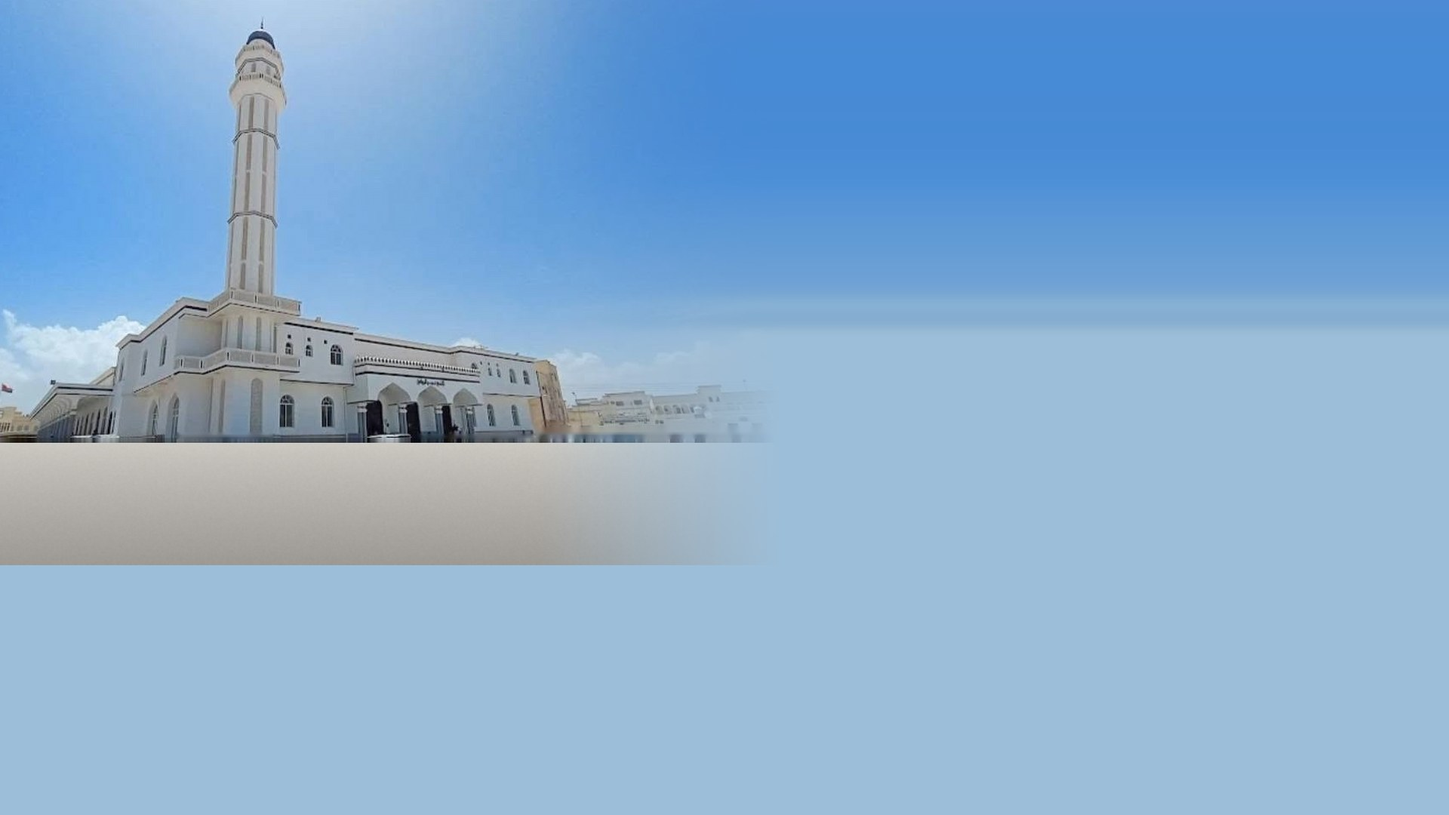
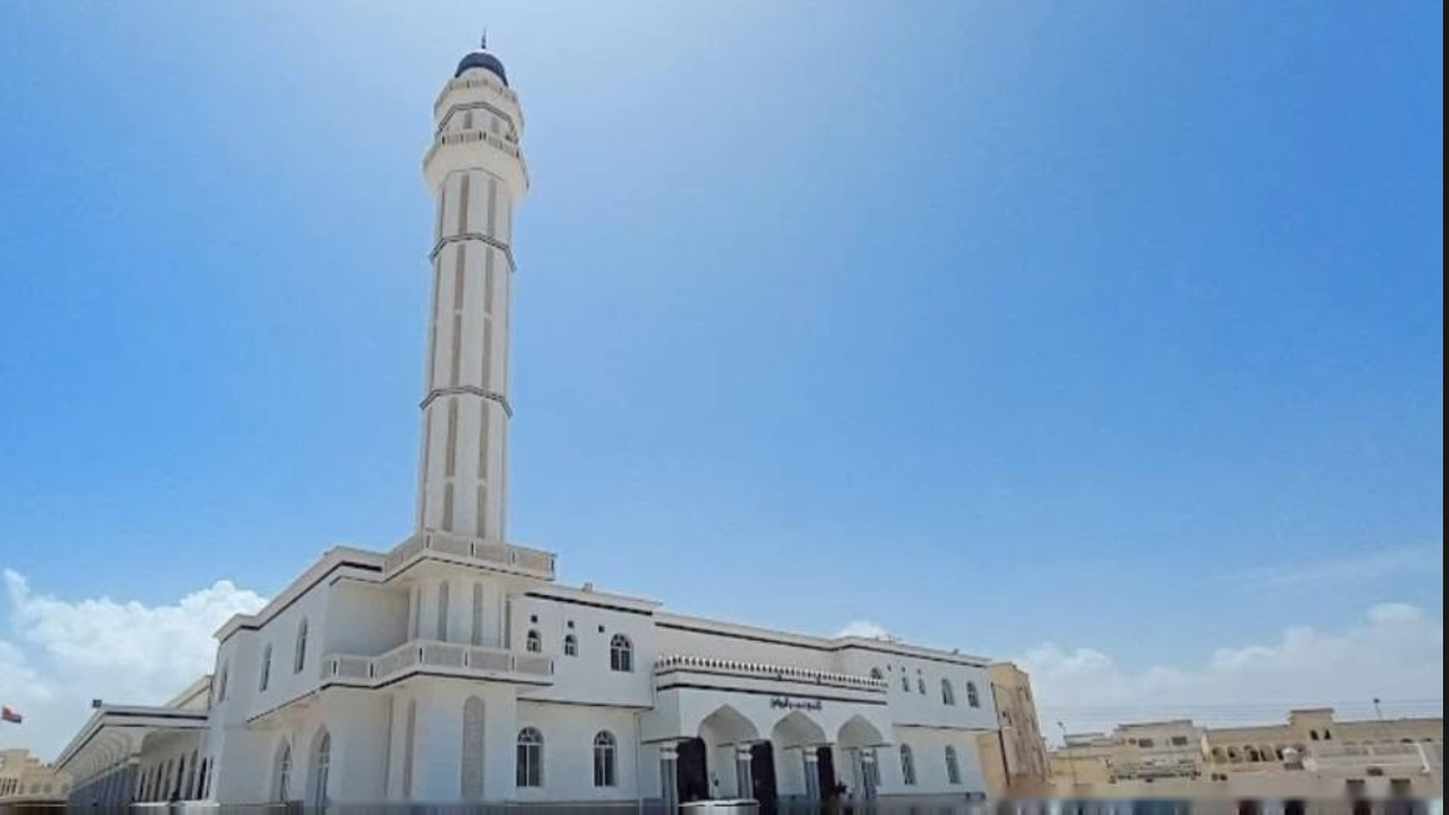
Home like Apple TV: one scrolling page (prayer card with iqamah, next island-team match + channel, Quran, live channels incl. Oman/MBC, every app); the mosque comes closer when scrolled; Quran bar closes (button, back, 8 s paused); Gulf country lists in IPTV
Claude-Session: https://claude.ai/code/session_01ARi9ftabyekJLjbacbC3ya

diff --git a/app/src/main/assets/home/index.html b/app/src/main/assets/home/index.html
@@ -12,8 +12,12 @@ html{background:var(--bg)}
 html,body{margin:0;height:100%;color:var(--ink);font-family:"Noto Sans Arabic","Noto Naskh Arabic","Roboto",sans-serif;overflow:hidden}
 .screen{width:1920px;height:1080px;padding:36px 64px 40px;display:flex;flex-direction:column;gap:22px;position:relative}
 /* the wallpaper: a light veil over the sky, solid ink under the shelves so text stays readable */
-.wall{position:fixed;inset:0;background-size:cover;background-position:center;z-index:-2;transition:background-image .6s}
-.veil{position:fixed;inset:0;z-index:-1;background:linear-gradient(180deg,rgba(10,14,19,.15) 0%,rgba(10,14,19,.25) 36%,rgba(10,14,19,.86) 64%,#0a0e13 84%)}
+.wall{position:fixed;inset:0;background-size:cover;background-position:center;z-index:-2;transform-origin:30% 78%;transition:background-image .6s,transform .9s cubic-bezier(.2,.8,.2,1)}
+/* scrolled down (Apple TV): the mosque comes closer, the veil evens out so every shelf stays readable */
+body.deep .wall{transform:scale(1.18)}
+body.deep .veil{background:linear-gradient(180deg,rgba(10,14,19,.4) 0%,rgba(10,14,19,.55) 45%,rgba(10,14,19,.8) 100%)}
+.veil{transition:background .9s}
+.veil{position:fixed;inset:0;z-index:-1;background:linear-gradient(180deg,rgba(10,14,19,.12) 0%,rgba(10,14,19,.22) 40%,rgba(10,14,19,.55) 72%,rgba(10,14,19,.78) 100%)}
 .glass{background:rgba(18,26,34,.62)!important;-webkit-backdrop-filter:blur(18px);backdrop-filter:blur(18px)}
 .line{font-size:20px;color:var(--gold);font-weight:700}
 .top{display:flex;align-items:center;justify-content:space-between;gap:24px}
@@ -26,18 +30,20 @@ html,body{margin:0;height:100%;color:var(--ink);font-family:"Noto Sans Arabic","
 .f{outline:none;transition:transform .18s ease,box-shadow .18s ease}
 .f:focus{transform:scale(1.06);box-shadow:0 0 0 4px rgba(255,255,255,.92),0 26px 50px rgba(0,0,0,.55);z-index:2}
 .tab.f:focus{transform:none;box-shadow:0 0 0 3px var(--accent)}
-.hero{display:flex;flex-direction:column;gap:16px;width:1080px;align-self:flex-start;padding:28px 40px;border-radius:40px;background:var(--card);border:1px solid var(--line)}
+.heroRow{display:flex;gap:28px;align-items:stretch}
+.hero{display:flex;flex-direction:column;gap:12px;width:1040px;flex:none;padding:22px 32px;border-radius:40px;background:var(--card);border:1px solid var(--line)}
 .hero .l{flex:1;display:flex;flex-direction:column;gap:8px}
 .hero small{font-size:24px;color:var(--accent);font-weight:600}
-.hero h1{margin:0;font-size:72px;line-height:1.05}
+.hero h1{margin:0;font-size:56px;line-height:1.05}
 .hero p{margin:0;font-size:24px;color:var(--dim)}
 .times{width:100%;display:flex;flex-direction:column;justify-content:center;gap:14px}
 .times .row{display:grid;grid-template-columns:repeat(5,1fr);gap:10px;text-align:center}
-.times .p{padding:10px 0;border-radius:22px;background:rgba(255,255,255,.04);display:flex;flex-direction:column;gap:4px}
-.times .p span{font-size:21px;color:var(--dim)} .times .p b{font-size:30px;font-variant-numeric:tabular-nums}
+.times .p{padding:8px 0;border-radius:22px;background:rgba(255,255,255,.04);display:flex;flex-direction:column;gap:4px}
+.times .p span{font-size:20px;color:var(--dim)} .times .p b{font-size:28px;font-variant-numeric:tabular-nums}
+.times .p em{font-style:normal;font-size:17px;color:var(--dim);font-variant-numeric:tabular-nums}.times .p.next em{color:#0b3d2a}
 .times .p.past b{color:#7c8794} .times .p.next{background:var(--accent);color:#062016} .times .p.next span{color:#062016}
 .bar{height:8px;border-radius:4px;background:rgba(255,255,255,.08);overflow:hidden}.bar i{display:block;height:100%;background:var(--accent)}
-h2{margin:0 0 4px;font-size:28px}
+h2{margin:0 0 4px;font-size:28px;text-shadow:0 2px 12px rgba(0,0,0,.6)}
 .shelf{display:flex;gap:28px;padding:14px 18px 18px;margin:0 -18px;overflow:hidden}
 .card{flex:none;width:340px;height:190px;border-radius:26px;padding:24px;display:flex;flex-direction:column;justify-content:flex-end;gap:2px;border:0;color:var(--ink);text-align:right;font-family:inherit}
 .card b{font-size:34px} .card span{font-size:19px;opacity:.8}
@@ -50,7 +56,17 @@ h2{margin:0 0 4px;font-size:28px}
 .match .t .s{font-variant-numeric:tabular-nums;font-size:32px}
 .match small{font-size:18px;color:var(--dim)} .match.live small{color:var(--accent)}
 .page{display:none;flex-direction:column;gap:14px;min-height:0}.page.on{display:flex}
-.sal{position:absolute;bottom:22px;left:64px;padding:10px 22px;border-radius:999px;background:rgba(255,255,255,.06);font-size:20px;color:#cfd6de}
+.sal{font-size:18px;color:#cfd6de;margin-top:6px}
+.nextm{flex:1;min-width:0;border-radius:40px;border:1px solid var(--line);padding:24px 30px;display:flex;flex-direction:column;justify-content:space-between;gap:10px;color:var(--ink);font-family:inherit;text-align:right}
+.nextm small{font-size:20px;color:var(--accent);font-weight:600}.nextm .lg{font-size:19px;color:var(--dim)}
+.nextm .vs{display:flex;align-items:center;justify-content:space-between;gap:12px}
+.nextm .tm{display:flex;flex-direction:column;align-items:center;gap:8px;width:42%;font-size:24px;font-weight:700;text-align:center;line-height:1.2}
+.nextm .tm img{width:72px;height:72px;object-fit:contain}
+.nextm .mid{font-size:30px;font-weight:700;font-variant-numeric:tabular-nums;text-align:center;white-space:nowrap}.nextm .mid i{display:block;font-style:normal;font-size:18px;color:var(--dim);font-weight:500}
+.nextm .tv{font-size:22px;font-weight:600;color:var(--gold)}
+#homeScroll{display:flex;flex-direction:column;gap:20px}
+.appgrid{display:grid;grid-template-columns:repeat(6,1fr);gap:26px;padding:12px 4px 20px}
+.appgrid .app{width:auto;height:160px}
 .empty{font-size:22px;color:var(--dim);padding:20px 4px}
 .panel{position:absolute;inset:0;background:rgba(5,8,11,.72);display:none;align-items:center;justify-content:center}
 .panel.on{display:flex}
@@ -75,7 +91,7 @@ h2{margin:0 0 4px;font-size:28px}
 .chan img{width:96px;height:96px;border-radius:50%;object-fit:cover;background:#222}
 .ichan{height:110px;border-radius:20px;background:rgba(20,28,37,.8);border:1px solid var(--line);display:flex;align-items:center;gap:14px;padding:0 18px;color:var(--ink);font-family:inherit;font-size:20px;text-align:right;overflow:hidden}
 .ichan img{width:64px;height:64px;object-fit:contain;flex:none}
-.player{position:absolute;bottom:22px;left:420px;right:64px;height:96px;border-radius:999px;display:flex;align-items:center;gap:14px;padding:0 18px 0 34px;z-index:5}
+.player{position:absolute;bottom:26px;left:50%;transform:translateX(-50%);width:1180px;height:96px;border-radius:999px;display:flex;align-items:center;gap:14px;padding:0 18px 0 34px;z-index:5}
 .player>div{flex:1;display:flex;flex-direction:column}.player b{font-size:26px}.player span{font-size:18px;color:var(--dim)}
 .player .btn{height:64px;padding:0 26px}
 [hidden]{display:none!important}
@@ -95,17 +111,21 @@ h2{margin:0 0 4px;font-size:28px}
       <button class="tab f" data-page="apps">التطبيقات</button>
       <button class="tab f" data-act="settings">الإعدادات</button>
     </nav>
-    <div class="wx" id="wx"></div>
+    <div><div class="wx" id="wx"></div><div class="sal">اللهم صلِّ وسلّم على نبينا محمد ﷺ</div></div>
   </div>
 
-  <section class="page on" id="p-home">
-    <div class="hero glass">
-      <div class="l"><small>الصلاة القادمة</small><h1 id="next">…</h1><p id="nextSub"></p></div>
-      <div class="times"><div class="row" id="times"></div><div class="bar"><i id="prog" style="width:0"></i></div></div>
+  <section class="page on" id="p-home"><div class="scroll" id="homeScroll">
+    <div class="heroRow">
+      <div class="hero glass">
+        <div class="l"><small id="heroSmall">الصلاة القادمة</small><h1 id="next">…</h1><p id="nextSub"></p></div>
+        <div class="times"><div class="row" id="times"></div><div class="bar"><i id="prog" style="width:0"></i></div></div>
+      </div>
+      <button class="nextm glass f" id="nextm" data-act="nextm"><small>أقرب مباراة</small><div class="empty">جارٍ التحميل…</div></button>
     </div>
     <div><h2>القرآن والأذكار</h2><div class="shelf" id="s-quran"></div></div>
-    <div><h2>التطبيقات</h2><div class="shelf" id="s-apps"></div></div>
-  </section>
+    <div><h2>قنوات مباشرة</h2><div class="shelf" id="s-live"><div class="empty">جارٍ التحميل…</div></div></div>
+    <div><h2>التطبيقات</h2><div class="appgrid" id="s-apps"></div></div>
+  </div></section>
 
   <section class="page" id="p-quran"><div class="scroll">
     <h2>القارئ</h2><div class="shelf" id="s-reciters"></div>
@@ -123,10 +143,9 @@ h2{margin:0 0 4px;font-size:28px}
     <h2>القنوات العربية</h2><div class="shelf" id="s-igroups"></div><div class="grid ch" id="s-ilist"></div>
   </div></section>
   <section class="page" id="p-matches"><h2>مباريات اليوم</h2><div class="shelf" id="s-matches" style="flex-wrap:wrap"></div></section>
-  <section class="page" id="p-apps"><h2>كل التطبيقات</h2><div class="shelf" id="s-apps2" style="flex-wrap:wrap"></div></section>
+  <section class="page" id="p-apps"><div class="scroll"><h2>كل التطبيقات</h2><div class="appgrid" id="s-apps2"></div></div></section>
 
-  <div class="player glass" id="player" hidden><div><b id="plTitle"></b><span id="plSub"></span></div><button class="btn f" data-act="pl-prev">السابقة</button><button class="btn f" data-act="pl-toggle" id="plToggle">إيقاف</button><button class="btn f" data-act="pl-next">التالية</button></div>
-  <div class="sal">اللهم صلِّ وسلّم على نبينا محمد ﷺ</div>
+  <div class="player glass" id="player" hidden><div><b id="plTitle"></b><span id="plSub"></span></div><button class="btn f" data-act="pl-prev">السابقة</button><button class="btn f" data-act="pl-toggle" id="plToggle">إيقاف</button><button class="btn f" data-act="pl-next">التالية</button><button class="btn f" data-act="pl-close">إغلاق</button></div>
 
   <div class="panel" id="panel"><div class="box">
     <h3>الإعدادات</h3>
@@ -173,19 +192,37 @@ function tick() {
 }
 let P = {};
 function loadPrayers() { try { P = JSON.parse(TV.prayers()) || {}; } catch (e) { P = {}; } prayersUi(); weather(); }
+async function loadSettings() { const ms = await getJ('https://studio.c-p.workers.dev/bin/69c782cbb7ec241ddcb0b99a'); if (ms && Array.isArray(ms.prayerSettings)) { PSET = ms.prayerSettings; prayersUi(); } }
 function at(hm, plusDay) { const [h, m] = hm.split(':').map(Number), d = new Date(); d.setHours(h, m, 0, 0); if (plusDay) d.setDate(d.getDate() + 1); return d; }
+// iqamah = adhan + DriveCast's own setting (master bin prayerSettings), else the usual Oman gaps
+let PSET = [];
+const PID = ['fajr', 'dhuhr', 'asr', 'maghrib', 'isha'], IQ = [25, 20, 20, 10, 20];
+const pset = i => PSET.find(x => x && x.id === PID[i]) || {};
 function prayersUi() {
   const t = P.today; if (!t) { $('#next').textContent = 'المواقيت عند أول اتصال'; return; }
-  const now = new Date(), list = t.map((x, i) => ({ i, d: at(x) }));
+  const now = new Date(), list = t.map((x, i) => {
+    const d = at(x); d.setMinutes(d.getMinutes() + (+pset(i).offsetMinutes || 0));
+    const iq = pset(i).iqamahDuration ?? IQ[i];
+    return { i, d, q: new Date(d.getTime() + iq * 60000) };
+  });
+  const iqNow = list.find(x => x.d <= now && x.q > now);
   let n = list.find(x => x.d > now), prev = [...list].reverse().find(x => x.d <= now);
   if (!n) n = { i: 0, d: at((P.tomorrow || t)[0], true) };
-  const mins = Math.round((n.d - now) / 60000);
-  $('#next').textContent = NAMES[n.i] + ' ' + (mins < 60 ? 'بعد ' + AR(mins) + ' دقيقة' : 'بعد ' + AR(Math.floor(mins / 60)) + ' س ' + AR(mins % 60) + ' د');
+  const left = ms => { const m = Math.max(1, Math.ceil(ms / 60000)); return m < 60 ? AR(m) + ' دقيقة' : AR(Math.floor(m / 60)) + ' س ' + AR(m % 60) + ' د'; };
+  if (iqNow) {
+    $('#heroSmall').textContent = 'أُذّن ' + NAMES[iqNow.i] + ' · ' + AR(fmtD(iqNow.d));
+    $('#next').textContent = 'الإقامة بعد ' + left(iqNow.q - now);
+  } else {
+    $('#heroSmall').textContent = 'الصلاة القادمة';
+    $('#next').textContent = NAMES[n.i] + ' بعد ' + left(n.d - now);
+  }
+  const hot = iqNow ? iqNow.i : n.i;
   $('#nextSub').textContent = (P.city ? P.city + ' · ' : '') + 'الأذان يتنبّه إذا كان فيلم يعمل، ولا يقطعه';
-  $('#times').innerHTML = t.map((x, i) => `<div class="p ${i === n.i ? 'next' : list[i].d <= now ? 'past' : ''}"><span>${NAMES[i]}</span><b>${AR(fmt(x))}</b></div>`).join('');
-  const from = prev ? prev.d : at(t[0]), span = n.d - from;
-  $('#prog').style.width = Math.max(0, Math.min(100, (now - from) / span * 100)) + '%';
+  $('#times').innerHTML = list.map(x => `<div class="p ${x.i === hot ? 'next' : x.q <= now ? 'past' : ''}"><span>${NAMES[x.i]}</span><b>${AR(fmtD(x.d))}</b><em>إقامة ${AR(fmtD(x.q))}</em></div>`).join('');
+  const from = iqNow ? iqNow.d : prev ? prev.d : at(t[0]), to = iqNow ? iqNow.q : n.d;
+  $('#prog').style.width = Math.max(0, Math.min(100, (now - from) / (to - from) * 100)) + '%';
 }
+const fmtD = d => fmt(d.getHours() + ':' + d.getMinutes());
 const fmt = hm => { let [h, m] = hm.split(':').map(Number); h = h % 12 || 12; return h + ':' + String(m).padStart(2, '0'); };
 let wxAt = 0;
 function weather() {
@@ -232,7 +269,11 @@ async function playSurah(n) {
   $('#plTitle').textContent = 'سورة ' + SURAHS[n - 1]; $('#plSub').textContent = r[1]; $('#plToggle').textContent = 'إيقاف';
   quranUi();
 }
-audio.onended = () => { if (playing && playing < 114) playSurah(playing + 1); };
+audio.onended = () => { if (playing && playing < 114) playSurah(playing + 1); else closePlayer(); };
+function closePlayer() { audio.pause(); audio.removeAttribute('src'); audio.load(); playing = null; $('#player').hidden = true; if ($('#player').contains(document.activeElement)) $('.tab.on')?.focus(); quranUi(); }
+let pauseT = 0;
+audio.onpause = () => { clearTimeout(pauseT); pauseT = setTimeout(() => { if (audio.paused && playing) closePlayer(); }, 8000); };
+audio.onplay = () => clearTimeout(pauseT);
 function quranUi() {
   const cur = getRec();
   $('#s-reciters').innerHTML = RECITERS.map(r => `<button class="chip f ${r[0] === cur ? 'on' : ''}" data-rec="${r[0]}">${r[1]}</button>`).join('');
@@ -282,15 +323,82 @@ function iptvUi() {
   window.__shown = shown;
   $('#s-ilist').innerHTML = shown.map((c, i) => ichHtml(c, i, 'shown')).join('') || '<div class="empty">جارٍ التحميل…</div>';
 }
-let iptvAt = 0;
-async function loadIptv() {
-  if (Date.now() - iptvAt < 30 * 60000) return; iptvAt = Date.now();
+const LISTS = [['languages/ara', ''], ['countries/om', 'عُمان'], ['countries/ae', 'الإمارات'], ['countries/sa', 'السعودية'], ['countries/qa', 'قطر'], ['countries/kw', 'الكويت']];
+let listsAt = 0, LIVE = [];
+async function loadLists() {
+  if (Date.now() - listsAt < 30 * 60000) return; listsAt = Date.now();
   const fav = await getJ(BIN(BINS.iptv));
   IFAV = arr(fav?.iptv, fav?.channels, fav).filter(c => c && c.url).map(c => ({ name: c.name, logo: c.stream_icon, url: c.url, group: c.group || '' }));
+  const texts = await Promise.all(LISTS.map(l => getText('https://iptv-org.github.io/iptv/' + l[0] + '.m3u')));
+  const seen = new Set(); ILIST = [];
+  texts.forEach((t, k) => parseM3u(t).forEach(c => { if (seen.has(c.url)) return; seen.add(c.url); ILIST.push(LISTS[k][1] ? { ...c, group: LISTS[k][1] } : c); }));
+  liveUi(); iptvUi();
+}
+// the home shelf: your DriveCast favourites first, then Oman, MBC, Quran and news
+const PICKS = [/^Oman TV\b/i, /^Oman TV Cultural/i, /^Oman TV Mubashir/i, /^Oman Sports?/i, /^MBC 1\b/i, /^MBC Drama/i, /^MBC 4\b/i, /^MBC 5\b/i, /^MBC Action/i, /^MBC Masr\b/i, /^Al Quran Al Kareem/i, /^Al Sunnah/i, /^Iqraa Quran/i, /^Al Jazeera( |$)/i, /^Al Arabiya( |$)/i, /^Dubai Sports/i, /^Abu Dhabi Sports/i, /^Sharjah Sports/i];
+function liveUi() {
+  const base = n => n.replace(/\s*[\(\[].*$/, '').trim().toLowerCase(), have = new Set(IFAV.map(c => base(c.name)));
+  LIVE = [...IFAV];
+  for (const re of PICKS) for (const c of ILIST) if (re.test(c.name) && !/geo-blocked|radio|\bFM\b/i.test(c.name) && !have.has(base(c.name))) { have.add(base(c.name)); LIVE.push(c); break; }
+  $('#s-live').innerHTML = LIVE.map((c, i) => ichHtml(c, i, 'live')).join('') || '<div class="empty">لا اتصال بالإنترنت</div>';
+}
+async function loadIptv() {
   $('#s-ifav').innerHTML = IFAV.map((c, i) => ichHtml(c, i, 'fav')).join('') || '<div class="empty">لا مفضّلة — أضفها من DriveCast</div>';
-  iptvUi();
-  ILIST = parseM3u(await getText('https://iptv-org.github.io/iptv/languages/ara.m3u'));
-  iptvUi();
+  iptvUi(); await loadLists();
+  $('#s-ifav').innerHTML = IFAV.map((c, i) => ichHtml(c, i, 'fav')).join('') || '<div class="empty">لا مفضّلة — أضفها من DriveCast</div>';
+}
+
+// ---- the next match of your «island» teams (DriveCast), and the channel that shows it in the region
+const LOGO = id => 'https://imagecache.365scores.com/image/upload/f_png,w_96,h_96,c_limit,q_auto:eco/Competitors/' + id;
+const TVRULES = [   // the same rights as DriveCast's match-channels.ts (2026/27), by the league's Arabic name
+  [/كأس ألمانيا|كأس إيطاليا/, 'أبوظبي الرياضية', /abu ?dhabi sports?/i],
+  [/السعودي|روشن|خادم الحرمين/, 'ثمانية', /thmanyah/i],
+  [/الألماني|بوندسليغا/, 'MBC Action · شاهد', /mbc action/i],
+  [/الإيطالي/, 'STARZPLAY Sport', /starz/i],
+  [/أدنوك|الإماراتي|رئيس الدولة|الخليج العربي/, 'أبوظبي الرياضية · دبي الرياضية', /abu ?dhabi sports?|dubai sports?/i],
+  [/العماني|عمانتل|السلطان/, 'عُمان الرياضية', /oman sports?/i],
+  [/الأرجنتيني|الهولندي/, 'دبي الرياضية', /dubai sports?/i],
+  [/القطري|نجوم/, 'الكأس', /alkass|al kass/i],
+  [/المصري/, 'أون تايم سبورت', /on ?time sports?/i],
+  [/الاسكتلندي/, 'الشارقة الرياضية', /sharjah sports?/i],
+  [/الأمريكي|الأميركي/, 'Apple TV', /apple/i],
+  [/الإنجليزي|الإسباني|الفرنسي|التركي|أبطال|الأوروبي|كونفرنس|آسيا|إفريقيا|أفريقيا|كأس الرابطة|كأس الاتحاد|العالم|الأمم/, 'beIN SPORTS', /bein/i],
+];
+let NEXTM = null;
+async function loadNext() {
+  const now = await getJ('https://studio.c-p.workers.dev/now?lang=27');
+  const isl = arr(now?.teams).filter(t => t.island).map(t => t.id);
+  let m = arr(now?.matches).find(x => x.favorite && x.status === 'live');
+  if (!m && isl.length) {
+    const d = await getJ('https://webws.365scores.com/web/games/fixtures/?appTypeId=5&langId=27&timezoneName=Asia/Muscat&userCountryId=1&competitors=' + isl.join(','));
+    const g = arr(d?.games).filter(g => g.statusGroup !== 4 && !/postpon|cancel|مؤجل|ملغ/i.test(g.statusText || '')).sort((a, b) => Date.parse(a.startTime) - Date.parse(b.startTime))[0];
+    if (g) m = { status: g.statusGroup === 3 ? 'live' : 'upcoming', timestamp: Date.parse(g.startTime) / 1000, league: { name: g.competitionDisplayName || '' },
+      home: { name: g.homeCompetitor.name, logo: LOGO(g.homeCompetitor.id) }, away: { name: g.awayCompetitor.name, logo: LOGO(g.awayCompetitor.id) },
+      score: { home: g.homeCompetitor.score, away: g.awayCompetitor.score }, elapsed: g.gameTime > 0 ? Math.floor(g.gameTime) : null };
+  }
+  if (!m) m = arr(now?.matches).find(x => x.favorite && x.status === 'upcoming');
+  NEXTM = m || null; nextUi();
+}
+function nextUi() {
+  const el = $('#nextm'), m = NEXTM;
+  if (!m) { el.innerHTML = '<small>أقرب مباراة</small><div class="empty">لا مباريات قريبة لفرقك المميّزة بالجزيرة في DriveCast</div>'; return; }
+  const rule = TVRULES.find(r => r[0].test(m.league?.name || '')), d = new Date(m.timestamp * 1000), live = m.status === 'live';
+  const today = new Date(), tom = new Date(); tom.setDate(tom.getDate() + 1);
+  const day = d.toDateString() === today.toDateString() ? 'اليوم' : d.toDateString() === tom.toDateString() ? 'غداً' : d.toLocaleDateString('ar', { weekday: 'long', day: 'numeric', month: 'long' });
+  const mins = Math.round((d - today) / 60000);
+  const mid = live ? `${AR(m.score?.home ?? 0)} - ${AR(m.score?.away ?? 0)}<i>● مباشر ${m.elapsed != null ? AR(m.elapsed) + '′' : ''}</i>`
+    : `${AR(fmtD(d))}<i>${day}${mins > 0 && mins < 600 ? ' · بعد ' + (mins < 60 ? AR(mins) + ' د' : AR(Math.floor(mins / 60)) + ' س') : ''}</i>`;
+  const tm = t => `<div class="tm"><img src="${esc(t.logo)}" alt="">${esc(t.name)}</div>`;
+  el.innerHTML = `<small>${live ? 'مباراة فرقك الآن' : 'أقرب مباراة'}</small><div class="lg">${esc(m.league?.name || '')}</div>
+    <div class="vs">${tm(m.home || {})}<div class="mid">${mid}</div>${tm(m.away || {})}</div>
+    <div class="tv">📺 ${rule ? rule[1] : 'القناة الناقلة غير معروفة'}</div>`;
+}
+function playMatchChannel() {
+  const rule = NEXTM && TVRULES.find(r => r[0].test(NEXTM.league?.name || ''));
+  const pool = [...IFAV, ...ILIST], i = rule ? pool.findIndex(c => rule[2].test(c.name)) : -1;
+  if (i < 0) return show('matches');
+  const list = pool.filter(c => rule[2].test(c.name));
+  TV.watch ? TV.watch(JSON.stringify(list.map(c => c.url)), JSON.stringify(list.map(c => c.name)), 0) : TV.link(list[0].url);
 }
 
 // ---- shelves
@@ -309,7 +417,7 @@ function loadApps() {
   // the most used first: a simple count kept on the TV
   let use = {}; try { use = JSON.parse(localStorage.use || '{}'); } catch (e) {}
   APPS.sort((a, b) => (use[b.pkg] || 0) - (use[a.pkg] || 0) || (b.tv - a.tv) || a.label.localeCompare(b.label, 'ar'));
-  $('#s-apps').innerHTML = appsHtml(6) || '<div class="empty">لا تطبيقات</div>';
+  $('#s-apps').innerHTML = appsHtml(200) || '<div class="empty">لا تطبيقات</div>';
   $('#s-apps2').innerHTML = appsHtml(200);
 }
 async function loadMatches() {
@@ -328,6 +436,7 @@ async function loadMatches() {
 function show(page) {
   document.querySelectorAll('.page').forEach(p => p.classList.toggle('on', p.id === 'p-' + page));
   document.querySelectorAll('.tab[data-page]').forEach(t => t.classList.toggle('on', t.dataset.page === page));
+  document.body.classList.toggle('deep', page !== 'home' || $('#homeScroll').scrollTop > 60);
   if (page === 'matches') loadMatches();
   if (page === 'quran') quranUi();
   if (page === 'subs') loadSubs();
@@ -344,7 +453,7 @@ function settings(on) {
   $('#cities .f')?.focus();
 }
 window.onTvMenu = () => settings(!$('#panel').classList.contains('on'));
-window.onTvBack = () => { if ($('#panel').classList.contains('on')) settings(false); else show('home'); };
+window.onTvBack = () => { if ($('#panel').classList.contains('on')) settings(false); else if (!$('#player').hidden && audio.paused) closePlayer(); else if ($('.page.on').id === 'p-home' && $('#homeScroll').scrollTop > 0) { $('#homeScroll').scrollTo({ top: 0, behavior: 'smooth' }); $('.tab.on').focus(); } else show('home'); };
 window.onTvResume = () => { loadApps(); loadPrayers(); };
 
 document.addEventListener('click', e => {
@@ -360,10 +469,12 @@ document.addEventListener('click', e => {
   if (b.dataset.rec) { try { localStorage.rec = b.dataset.rec; } catch (x) {} if (playing) playSurah(playing); return quranUi(); }
   if (b.dataset.sura) return playSurah(+b.dataset.sura);
   if (b.dataset.act === 'pl-toggle') { if (audio.paused) { audio.play(); b.textContent = 'إيقاف'; } else { audio.pause(); b.textContent = 'تشغيل'; } return; }
+  if (b.dataset.act === 'pl-close') return closePlayer();
+  if (b.dataset.act === 'nextm') return playMatchChannel();
   if (b.dataset.act === 'pl-next' && playing) return playSurah(Math.min(114, playing + 1));
   if (b.dataset.act === 'pl-prev' && playing) return playSurah(Math.max(1, playing - 1));
   if (b.dataset.igroup) { IGROUP = b.dataset.igroup; return iptvUi(); }
-  if (b.dataset.ilist) { const list = b.dataset.ilist === 'fav' ? IFAV : window.__shown; if (TV.watch) TV.watch(JSON.stringify(list.map(c => c.url)), JSON.stringify(list.map(c => c.name)), +b.dataset.i); else TV.link(list[+b.dataset.i].url); return; }
+  if (b.dataset.ilist) { const list = b.dataset.ilist === 'fav' ? IFAV : b.dataset.ilist === 'live' ? LIVE : window.__shown; if (TV.watch) TV.watch(JSON.stringify(list.map(c => c.url)), JSON.stringify(list.map(c => c.name)), +b.dataset.i); else TV.link(list[+b.dataset.i].url); return; }
   if (b.dataset.pkg) { let use = {}; try { use = JSON.parse(localStorage.use || '{}'); } catch (x) {} use[b.dataset.pkg] = (use[b.dataset.pkg] || 0) + 1; try { localStorage.use = JSON.stringify(use); } catch (x) {} return TV.open(b.dataset.pkg); }
   if (b.dataset.city) { const c = CITIES.find(x => x[0] === b.dataset.city); TV.setCity(String(c[1]), String(c[2]), c[3], c[0]); setTimeout(() => { loadPrayers(); settings(true); }, 1500); }
 });
@@ -385,7 +496,10 @@ function move(dir) {
     const d = main + side * 2.5;
     if (d < bd) { bd = d; best = el; }
   }
-  if (best) { best.focus(); best.scrollIntoView({ block: 'nearest', inline: 'nearest' }); }
+  if (!best) return;
+  best.focus();
+  if (best.classList.contains('tab')) { document.querySelectorAll('.scroll').forEach(s => s.scrollTo({ top: 0, behavior: 'smooth' })); return; }
+  best.scrollIntoView({ block: dir === 'up' || dir === 'down' ? 'center' : 'nearest', inline: 'nearest', behavior: 'smooth' });
 }
 document.addEventListener('keydown', e => {
   const k = { ArrowLeft: 'left', ArrowRight: 'right', ArrowUp: 'up', ArrowDown: 'down' }[e.key];
@@ -394,8 +508,9 @@ document.addEventListener('keydown', e => {
 });
 
 $('#s-quran').innerHTML = cardsHtml(); $('#s-quran2').innerHTML = cardsHtml();
-loadPrayers(); loadApps(); tick(); loadMatches();
-setInterval(tick, 20000); setInterval(loadMatches, 120000); setInterval(loadPrayers, 30 * 60000);
+loadPrayers(); loadApps(); tick(); loadMatches(); loadSettings(); loadNext(); loadLists();
+setInterval(tick, 20000); setInterval(loadMatches, 120000); setInterval(() => { loadPrayers(); loadSettings(); }, 30 * 60000); setInterval(loadNext, 5 * 60000); setInterval(nextUi, 60000);
+$('#homeScroll').addEventListener('scroll', () => document.body.classList.toggle('deep', $('#homeScroll').scrollTop > 60));
 document.querySelector('.tab').focus();
 // a TV that reports a smaller CSS width (720p / 1080p at a density): the 1920×1080 design scaled to fit
 function fit() { document.body.style.zoom = String(Math.min(innerWidth / 1920, innerHeight / 1080)); }

diff --git a/app/src/main/java/app/drivecast/tv/HomeActivity.java b/app/src/main/java/app/drivecast/tv/HomeActivity.java
@@ -181,7 +181,10 @@ public class HomeActivity extends Activity {
                 try {
                     java.net.HttpURLConnection c = (java.net.HttpURLConnection) new java.net.URL(url).openConnection();
                     c.setConnectTimeout(12000); c.setReadTimeout(30000);
-                    c.setRequestProperty("User-Agent", "VLC/3.0.20");
+                    if (url.contains("365scores.com")) {   // the fixtures API answers a browser
+                        c.setRequestProperty("User-Agent", "Mozilla/5.0 (Linux; Android 12) AppleWebKit/537.36 Chrome/120 Safari/537.36");
+                        c.setRequestProperty("Origin", "https://www.365scores.com"); c.setRequestProperty("Referer", "https://www.365scores.com/");
+                    } else c.setRequestProperty("User-Agent", "VLC/3.0.20");
                     java.io.InputStream in = new java.io.BufferedInputStream(c.getInputStream());
                     in.mark(2);
                     int b0 = in.read(), b1 = in.read();
